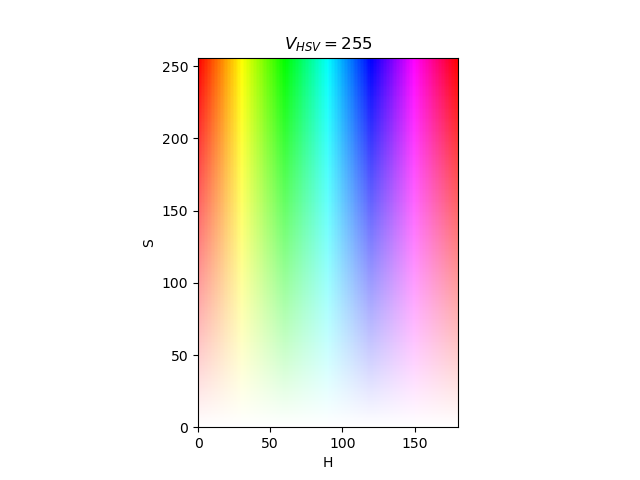
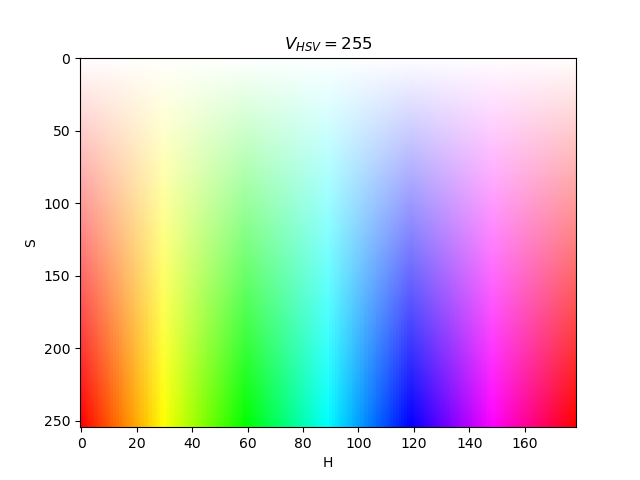
Reverse hsv plot yaxis and expand

diff --git a/hsv_colorspace_plotter.py b/hsv_colorspace_plotter.py
@@ -15,14 +15,16 @@ import matplotlib.pyplot as plt
 from matplotlib.colors import hsv_to_rgb
 
 
-s, h = np.mgrid[0:1:256j, 0:1:180j]
+s, h = np.mgrid[0:1:255j, 0:1:179j]
 v = np.ones_like(s)
 hsv = np.dstack((h,s,v))
 rgb = hsv_to_rgb(hsv)
 
 print(rgb.shape)
-plt.imshow(rgb, origin="lower", extent=[0, 180, 0, 256])
+plt.imshow(rgb, origin="lower", interpolation='nearest', aspect='auto')
+plt.gca().invert_yaxis()
 plt.xlabel("H")
 plt.ylabel("S")
+plt.xticks(range(0,179,20))
 plt.title("$V_{HSV}=255$")
 plt.show()
